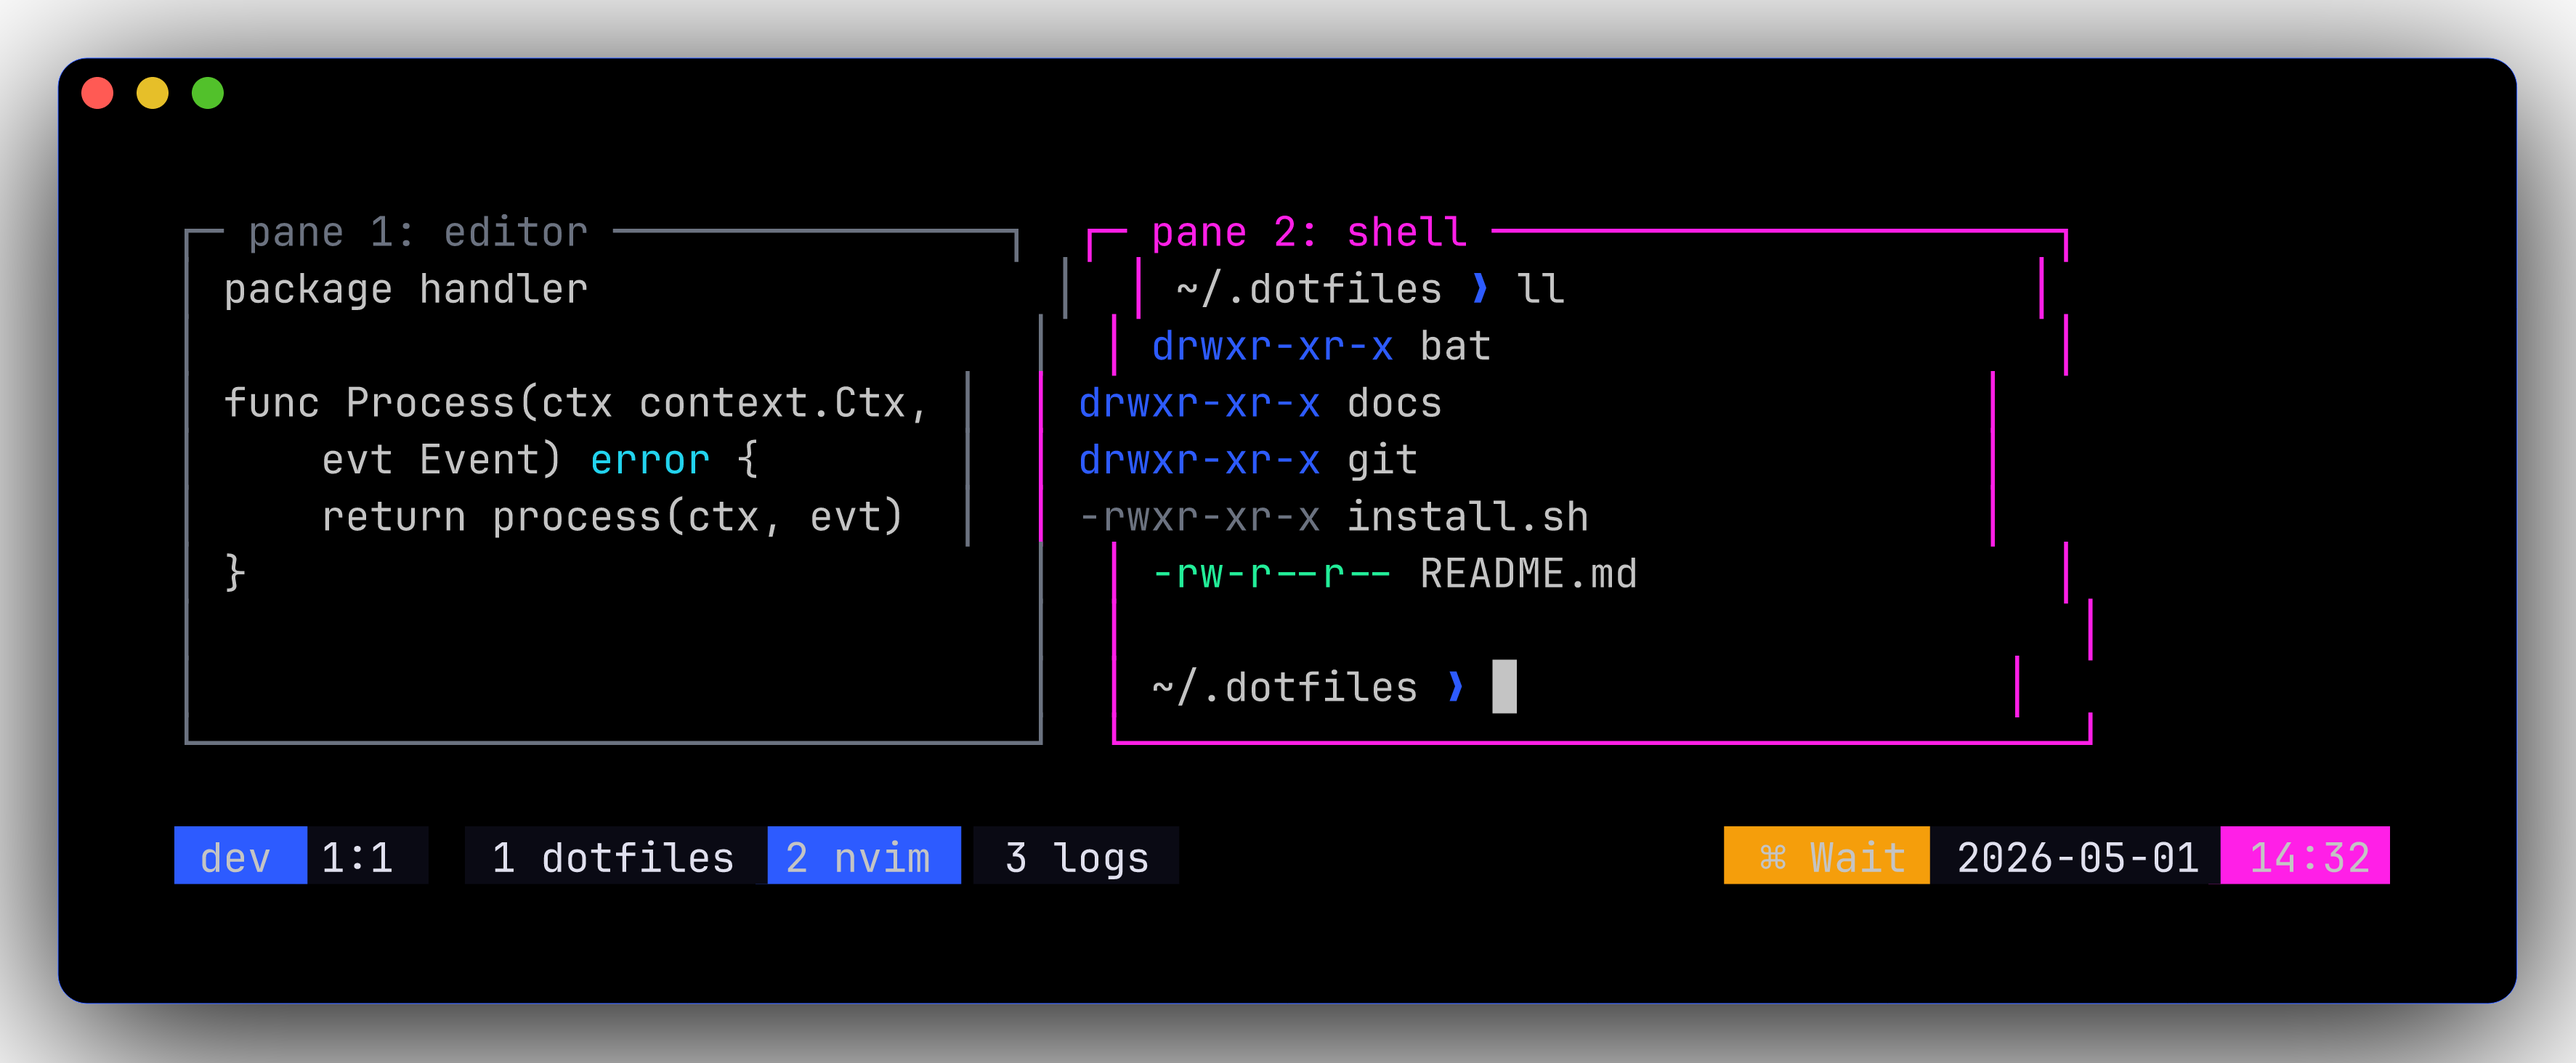
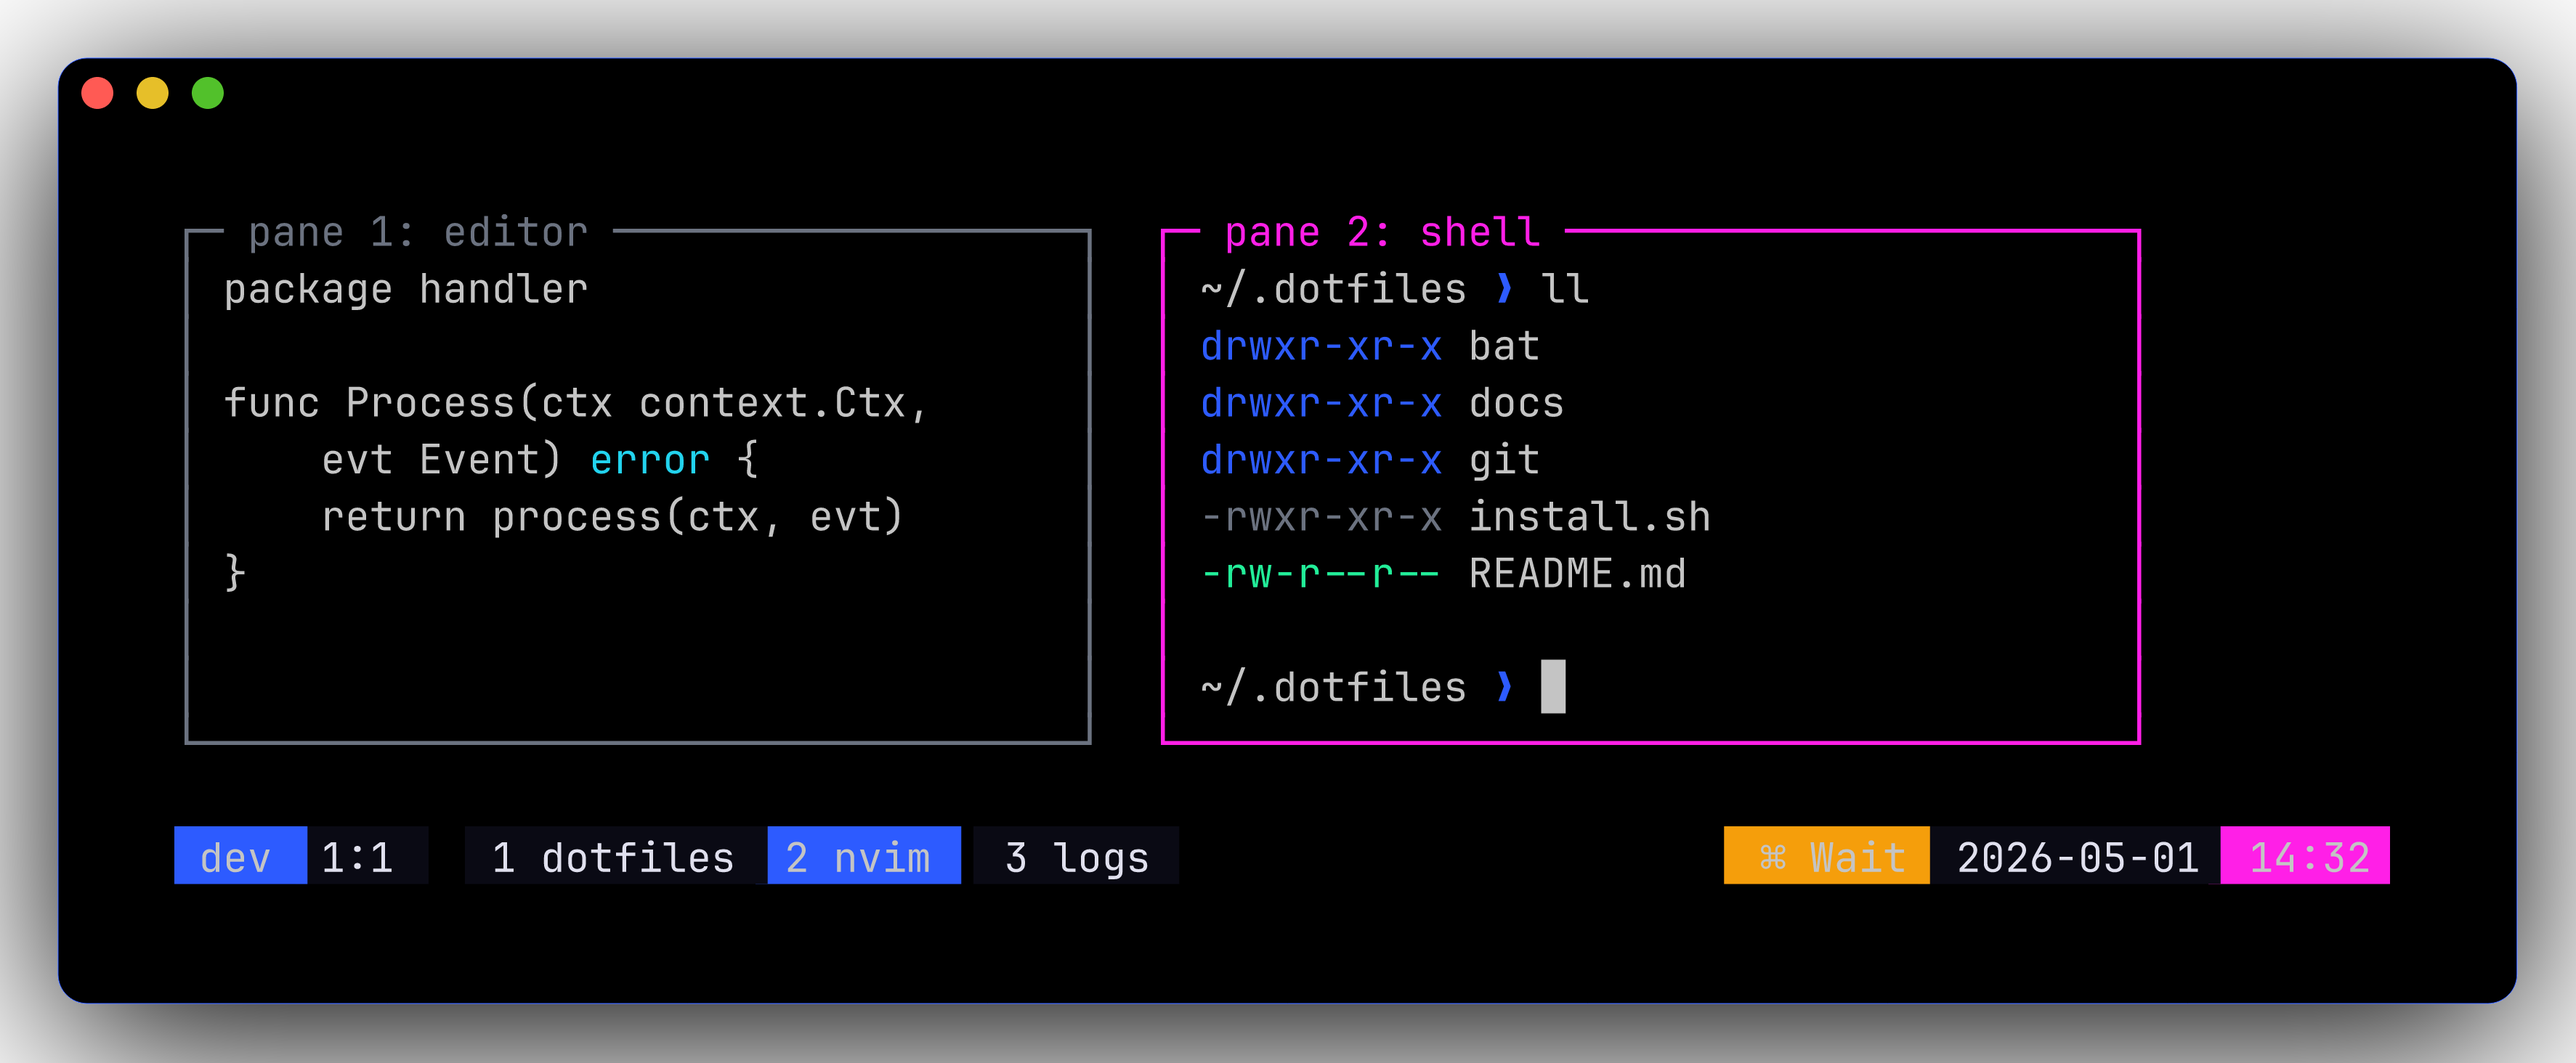
chore(impeccable): align in-progress work + correct docs typography drift
Audit of the in-progress edits against the freshly-written PRODUCT.md /
DESIGN.md confirms they're system-aligned and ready to land:

  - README.md / docs/prompt.md: prompt-anatomy diagram refreshed from
    decorative ┌── Line N ──┐ box-frames to comment-style "# Line N
    (left format)   + right_format" annotations. The new style mirrors
    starship.toml syntax, adds explicit annotations for the right-side
    segments, and drops noise. Passes "The Mono-Carries-Evidence Rule".
  - docs/screenshots/generate.sh + tmux.png: mechanical alignment fix
    for the synthesized tmux-pane ASCII (inner widths to 36/39 chars
    so the right │ and bottom └─┘ line up). The screenshot itself
    demonstrates the system: grey inactive border, magenta active
    border, cobalt directory listings, magenta keywords, green for
    README, amber/magenta status segments — matches DESIGN.md §5.
  - mkdocs.yml: site_url set to the GitHub Pages target; theme.font
    block keeps Inter (body) + JetBrains Mono (code).
  - .github/workflows/docs.yml: GitHub Pages deploy workflow that
    rebuilds the mkdocs site on push to main.

Typography drift in DESIGN.md / DESIGN.json (just-written) corrected:
the spec asserted "docs uses mkdocs-material defaults (Roboto + Roboto
Mono)" but mkdocs.yml actually declares Inter + JetBrains Mono. The
project's choice is more coherent — the docs mono echoes the terminal
mono (same family; the terminal variant just adds Nerd Font glyph
[…]

diff --git a/DESIGN.md b/DESIGN.md
@@ -33,19 +33,19 @@ typography:
     lineHeight: 1.4
     letterSpacing: "normal"
   docs-body:
-    fontFamily: "'Roboto', -apple-system, BlinkMacSystemFont, sans-serif"
+    fontFamily: "'Inter', -apple-system, BlinkMacSystemFont, sans-serif"
     fontSize: "16px"
     fontWeight: 400
     lineHeight: 1.6
     letterSpacing: "normal"
   docs-heading:
-    fontFamily: "'Roboto', -apple-system, BlinkMacSystemFont, sans-serif"
+    fontFamily: "'Inter', -apple-system, BlinkMacSystemFont, sans-serif"
     fontSize: "32px"
     fontWeight: 600
     lineHeight: 1.2
     letterSpacing: "-0.01em"
   docs-mono:
-    fontFamily: "'Roboto Mono', 'JetBrains Mono', monospace"
+    fontFamily: "'JetBrains Mono', 'JetBrainsMono Nerd Font', monospace"
     fontSize: "14px"
     fontWeight: 400
     lineHeight: 1.5
@@ -209,10 +209,10 @@ The palette is two saturated neons (cobalt + magenta) on a three-step pure-black
 ## 3. Typography
 
 **Terminal Font:** JetBrainsMono Nerd Font (with `'JetBrains Mono', monospace` fallback) — required for prompt + statusline glyphs. Set in the terminal emulator (cmux / Ghostty / iTerm2) profile.
-**Docs Body Font:** Roboto (mkdocs-material default) — kept default; the docs site does not impose a custom body face.
-**Docs Mono Font:** Roboto Mono (mkdocs-material default) — kept default; code blocks render in Roboto Mono on the docs site, NOT JetBrainsMono Nerd Font, because Nerd Font glyphs are not material to docs prose.
+**Docs Body Font:** Inter (with `-apple-system, BlinkMacSystemFont, sans-serif` fallback) — declared in `mkdocs.yml`'s `theme.font.text` block. NOT mkdocs-material's Roboto default. Inter is a deliberate choice for the slightly more technical, lower-x-height feel.
+**Docs Mono Font:** JetBrains Mono — declared in `mkdocs.yml`'s `theme.font.code` block. The same family as the terminal's `JetBrainsMono Nerd Font` (the terminal variant adds Nerd Font glyph extensions). The shared letterforms are the point: a code block on the docs site sits next to a terminal screenshot and the type matches.
 
-**Character:** A single mono face carries the entire terminal system — there is no second TUI font. The docs site relies on mkdocs-material's default Roboto pairing without override, which means the only typographic commitment on the site is the use of a sans body and a mono code face. Hierarchy on the site comes from mkdocs-material's built-in scale, recolored to match the palette but otherwise untouched.
+**Character:** A single mono family carries the entire system — `JetBrains Mono`, with the Nerd Font extension active in the terminal. Inter handles docs-site body and headings. There is no third typeface. Hierarchy on the docs site comes from mkdocs-material's built-in scale, recolored to match the palette but otherwise untouched.
 
 ### Hierarchy (terminal)
 
@@ -221,15 +221,15 @@ The palette is two saturated neons (cobalt + magenta) on a three-step pure-black
 
 ### Hierarchy (docs site)
 
-- **Docs heading** (600, 32px and below per mkdocs-material scale, line-height 1.2, letter-spacing -0.01em): mkdocs-material default scale, untouched. Headings inherit the Roboto sans default.
-- **Docs body** (400, 16px, line-height 1.6): Default mkdocs-material body type. Untouched.
-- **Docs mono** (400, 14px, line-height 1.5): Code blocks and inline `<code>` on the docs site. mkdocs-material default, with the cobalt 30% border and `carbon-elevated` background applied via `docs/stylesheets/cobalt.css`.
+- **Docs heading** (600, 32px and below per mkdocs-material scale, line-height 1.2, letter-spacing -0.01em): mkdocs-material default scale, untouched. Headings render in Inter (declared in `mkdocs.yml`).
+- **Docs body** (400, 16px, line-height 1.6): mkdocs-material body type, rendered in Inter.
+- **Docs mono** (400, 14px, line-height 1.5): Code blocks and inline `<code>` on the docs site. JetBrains Mono (declared in `mkdocs.yml`), with the cobalt 30% border and `carbon-elevated` background applied via `docs/stylesheets/cobalt.css`.
 
 ### Named Rules
 
 **The Mono-Is-The-Voice Rule.** The terminal system has exactly one typographic register — JetBrainsMono Nerd Font. Hierarchy comes from weight (regular vs. bold), color, and Nerd Font glyph density, not from a typographic scale. The terminal does not have headings.
 
-**The Docs-Inherit Rule.** The mkdocs site uses mkdocs-material's typography defaults. Custom typography on the docs site is forbidden unless the change cascades from the palette (color, link decoration). Adding a custom font face or a custom scale converts the site from "documented system" to "second design system" — bad.
+**The Mono-Echo Rule.** The docs site uses Inter (body) and JetBrains Mono (code), declared in `mkdocs.yml`'s `theme.font` block. The mono on the docs site is deliberately the SAME family as the terminal's `JetBrainsMono Nerd Font` (same letterforms; the terminal variant adds Nerd Font glyph extensions). When a terminal screenshot sits next to an inline code block on the docs site, the type matches by design. Returning to Roboto / Roboto Mono — or introducing any third typeface — is forbidden.
 
 **The Glyph-Is-Signal Rule.** Nerd Font glyphs (`` for Azure, `⎈` for k8s, `` for battery, ` ` for git, etc.) are kept where they carry meaning. Stringing glyphs together to "add personality" — the powerline arrows-of-arrows trap — is forbidden. Each glyph either replaces a label or makes a label faster to scan.
 
@@ -340,7 +340,7 @@ Set to `TwoDark` theme — "the closest built-in to the cobalt/magenta-on-black 
 - **Do** use cobalt for *where you are* (directory, working dir, model name, k8s context-as-token, Azure subscription) and magenta for *what's happening* (git state, command failure, focused element, active tab, selection).
 - **Do** keep the 3-line starship prompt frame (`╭─ │ ╰─`) in `grey`. The frame is structural, not accent.
 - **Do** allow the docs site to use shadows (low / med / magenta-glow / cobalt-pop) as documented. The site is allowed depth that the TUI cannot have.
-- **Do** keep mkdocs-material's typography defaults (Roboto + Roboto Mono). Adding a custom font on the site converts it from "documented system" to "second design system."
+- **Do** keep `mkdocs.yml`'s `theme.font` block at Inter (body) + JetBrains Mono (code). The mono deliberately echoes the terminal's `JetBrainsMono Nerd Font`; drift breaks the letterform match between docs and terminal.
 - **Do** treat each Nerd Font glyph as signal — `⎈` means k8s, `` means Azure, `` means git, `` means battery. If a glyph doesn't replace a label or make scanning faster, drop it.
 - **Do** preserve `prefers-reduced-motion` on the docs site — no scroll-driven animations.
 - **Do** check that `JetBrainsMono Nerd Font` is brewed and active before assuming glyphs render; gracefully fall back to ASCII when it's missing (per starship config behavior).
@@ -355,7 +355,7 @@ Set to `TwoDark` theme — "the closest built-in to the cobalt/magenta-on-black 
 - **Don't** use `shadow-magenta-glow` on cards or large surfaces. It signals interactivity at element scale; at surface scale it becomes decoration.
 - **Don't** use `border-left` greater than 1-px on the docs site as a colored stripe. mkdocs-material's admonition uses a structural left border that's part of the chassis — overriding it with a thicker colored stripe is the impeccable "side-stripe" anti-pattern.
 - **Don't** drift the bat theme away from TwoDark without building a custom bat theme that matches the palette exactly. An approximation that's "close to cobalt+magenta" is worse than the documented TwoDark approximation.
-- **Don't** add a third typeface to the system. The terminal uses JetBrainsMono Nerd Font. The docs site uses mkdocs-material defaults (Roboto + Roboto Mono). That's the entire typographic vocabulary.
+- **Don't** add a third typeface to the system. The terminal uses JetBrainsMono Nerd Font. The docs site uses Inter (body) and JetBrains Mono (code). That's the entire typographic vocabulary — and the mono family is shared deliberately between terminal and docs.
 - **Don't** chain Nerd Font glyphs together as personality garnish. Each glyph either replaces a label or makes scanning faster. "Personality" glyphs dilute the signal.
 - **Don't** use yellow (`#F5C542`) outside of nvim's `IncSearch`. It's a single-purpose token; quoting it elsewhere drifts the system.
 - **Don't** use em dashes in prose on the docs site. Use commas, colons, semicolons, periods, or parentheses. Also not `--` (cross-cutting impeccable rule).

diff --git a/README.md b/README.md
@@ -118,21 +118,26 @@ A 3-line cobalt + magenta starship prompt with right-aligned battery + clock. Ev
 
 ### Anatomy
 
-```
-   ┌── Line 1 ─────────────────────────────────────────────────────┐
+```text
+# Line 1 (left format)                                  + right_format
 ╭─  ~/work/dotfiles   on   main !8 ?15           🐳   [bat]  [time]
    │                  │    │                      │      │     │
-   │                  │    └─ git_branch + status │      │     └─ time
-   │                  └─ "on" literal             │      └─ battery
-   │                                              └─ colima (🐳 if running)
+   │                  │    │                      │      │     └─ time
+   │                  │    │                      │      └─ battery
+   │                  │    │                      └─ colima (🐳 if running)
+   │                  │    └─ git_branch + status
+   │                  └─ "on" literal
    └─ directory
-   ┌── Line 2 ─────────────────────────────────────────────────────┐
+
+# Line 2
 │  ⎈ aks-prod (default)   Armada-Prod   3.12.1 (venv)  took 4s
 │   │                    │              │              │
-│   └─ kubernetes        │              │              └─ cmd_duration
-│                        │              └─ python
-│                        └─ azure
-   ┌── Line 3 ─────────────────────────────────────────────────────┐
+│   │                    │              │              └─ cmd_duration
+│   │                    │              └─ python
+│   │                    └─ azure
+│   └─ kubernetes
+
+# Line 3
 ╰─❯
    └─ character
 ```

diff --git a/docs/prompt.md b/docs/prompt.md
@@ -9,21 +9,26 @@ Every segment is contextual: it only shows when it has something useful to say.
 
 ## Anatomy
 
-```
-┌── Line 1 ─────────────────────────────────────────────────────┐
+```text
+# Line 1 (left format)                                  + right_format
 ╭─  ~/work/dotfiles   on   main !8 ?15           🐳   [bat]  [time]
    │                  │    │                      │      │     │
-   │                  │    └─ git_branch + status │      │     └─ time
-   │                  └─ "on" literal             │      └─ battery
-   │                                              └─ colima (🐳 if running)
+   │                  │    │                      │      │     └─ time
+   │                  │    │                      │      └─ battery
+   │                  │    │                      └─ colima (🐳 if running)
+   │                  │    └─ git_branch + status
+   │                  └─ "on" literal
    └─ directory
-┌── Line 2 ─────────────────────────────────────────────────────┐
+
+# Line 2
 │  ⎈ aks-prod (default)   Armada-Prod   3.12.1 (venv)  took 4s
 │   │                    │              │              │
-│   └─ kubernetes        │              │              └─ cmd_duration
-│                        │              └─ python
-│                        └─ azure
-┌── Line 3 ─────────────────────────────────────────────────────┐
+│   │                    │              │              └─ cmd_duration
+│   │                    │              └─ python
+│   │                    └─ azure
+│   └─ kubernetes
+
+# Line 3
 ╰─❯
    └─ character
 ```
